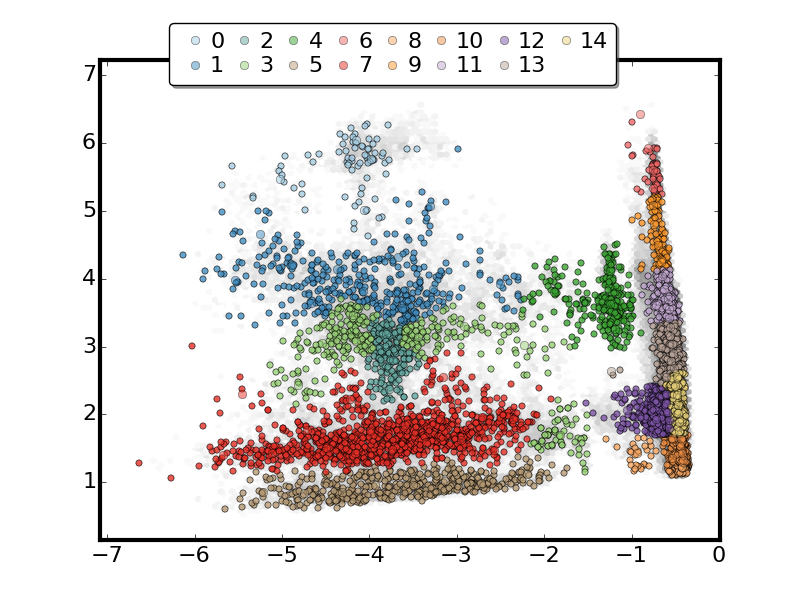
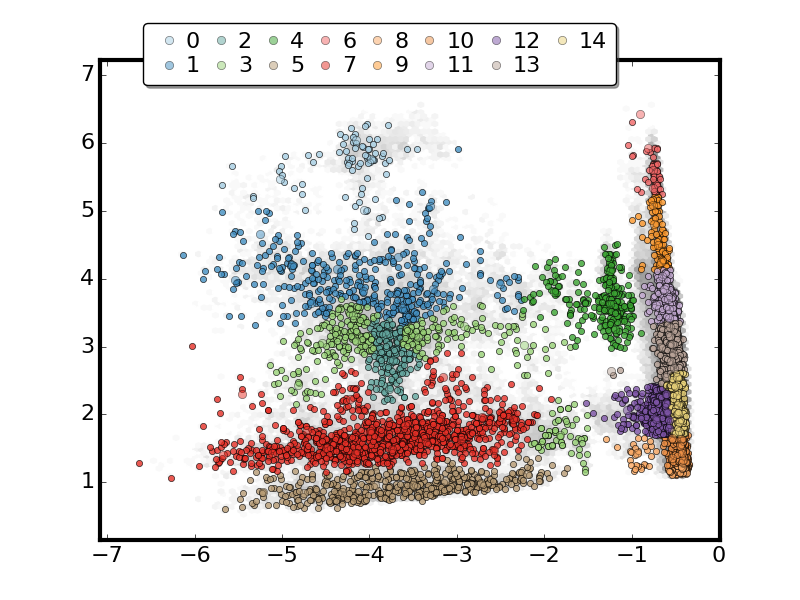
all

diff --git a/hDAT_Na_SREP/msm/15macros/plot_macros.py b/hDAT_Na_SREP/msm/15macros/plot_macros.py
@@ -37,12 +37,7 @@ for i in range(15):
 	    stride = 10
 	ev00.extend(dd[:,0][ind][0:-1:stride])
 	ev11.extend(dd[:,1][ind][0:-1:stride])
-    print len(ev00)
-    if i == 8:
-        plt.scatter(ev00,ev11,c=c,cmap='gist_ncar',alpha=0.8, linewidths=0.5)#colors[i])
-    else:
-        plt.scatter(ev00,ev11,c=c,cmap='gist_ncar',alpha=0.8, linewidths=0.5)#colors[i])
+    plt.scatter(ev00,ev11,c=c,cmap='gist_ncar',alpha=0.8, linewidths=0.5)
 
-#plt.savefig('macros10_4.png',dpi=800)
-plt.show()
+plt.savefig('img_macrostates.png',dpi=100)
 
